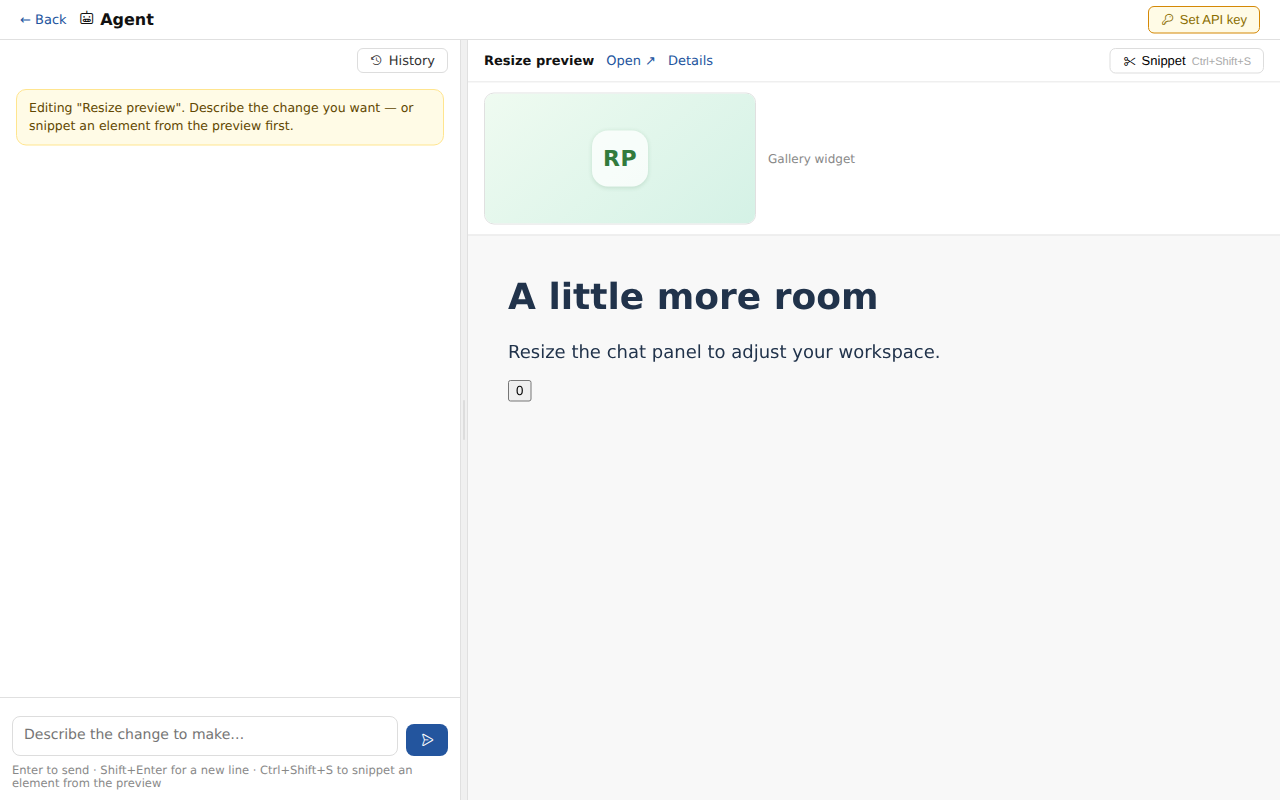
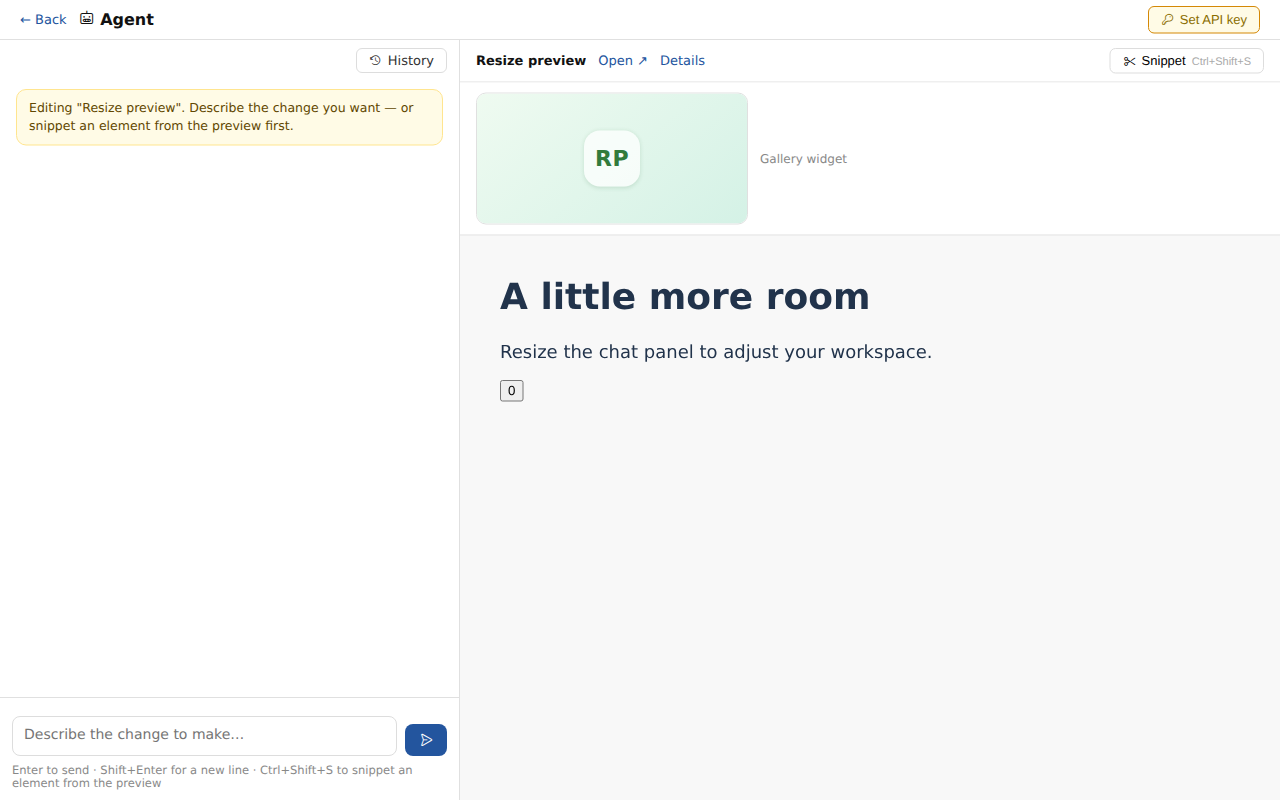
Use the agent panel border for resizing without a visible handle

diff --git a/web/gallery/agent.css b/web/gallery/agent.css
@@ -12,10 +12,10 @@ header h1{font-size:16px;font-weight:600;flex:1}
 .key-btn:hover{border-color:var(--brand-blue);color:var(--brand-blue)}
 .key-btn.warn{border-color:var(--color-warn-strong);color:var(--color-warn-ink-soft);background:var(--color-warn-tint)}
 .layout{display:flex;flex:1;overflow:hidden}
-.chat{width:clamp(280px,var(--agent-chat-width,460px),calc(100% - 288px));min-width:280px;flex-shrink:0;display:flex;flex-direction:column;background:var(--color-panel)}
-.pane-resizer{flex:0 0 8px;position:relative;cursor:col-resize;touch-action:none;background:var(--color-ground);border-inline:1px solid var(--color-hairline);outline:none}
-.pane-resizer::after{content:"";position:absolute;inset:calc(50% - 20px) 2px;border-radius:2px;background:var(--color-border)}
-.pane-resizer:hover::after,.pane-resizer:focus-visible::after,.layout.is-resizing .pane-resizer::after{background:var(--brand-blue)}
+.chat{width:clamp(280px,var(--agent-chat-width,460px),calc(100% - 280px));min-width:280px;flex-shrink:0;display:flex;flex-direction:column;background:var(--color-panel);border-right:1px solid var(--color-hairline)}
+/* An invisible hit area straddles the panel's normal border without taking
+ * layout space or adding a visible grip. */
+.pane-resizer{flex:0 0 8px;margin-inline:-4px;position:relative;z-index:1;cursor:col-resize;touch-action:none;outline:none}
 .pane-resizer:focus-visible{box-shadow:inset 0 0 0 2px var(--brand-blue)}
 .layout.is-resizing{cursor:col-resize;user-select:none}
 /* Captured pointer events must keep reaching the divider over artifact frames. */

diff --git a/web/gallery/agent-resize.js b/web/gallery/agent-resize.js
@@ -16,7 +16,7 @@ try {
 } catch { /* Storage can be unavailable; resizing still works. */ }
 
 function maximumWidth() {
-  return Math.max(MIN_PANE_WIDTH, layout.clientWidth - divider.offsetWidth - MIN_PANE_WIDTH);
+  return Math.max(MIN_PANE_WIDTH, layout.clientWidth - MIN_PANE_WIDTH);
 }
 
 function applyWidth() {

diff --git a/.tickets/Exh-blsd.md b/.tickets/Exh-blsd.md
@@ -26,3 +26,7 @@ Implemented a persistent desktop divider with pointer capture, keyboard controls
 **2026-10-19T04:16:52Z**
 
 Final validation: go test ./... passes after regenerating the stale local Phosphor bundle. Browser checks pass for pointer dragging across the artifact, keyboard controls, reload persistence, viewport clamping, and mobile tabs. Four current screenshots are committed with the implementation.
+
+**2026-10-19T04:29:01Z**
+
+Refined the interaction per user feedback: removed the visible resize gutter, grip, and instructional tooltip. The chat keeps its normal hairline border; an invisible hit area straddles that edge with the standard resize cursor. Updated width limits to account for zero gutter space. Five resize interaction tests and the focused Go/page-script suite pass; browser dragging and narrow/mobile layouts verified; screenshots refreshed.

diff --git a/docs/agent.md b/docs/agent.md
@@ -584,8 +584,9 @@ conversation that cannot be continued — kept before session files existed, or 
 an instance with no agent — shows a note where the card would be, not a missing
 button.
 
-**Resizable chat (Exh-blsd).** On desktop, drag the divider between chat and
-preview to change the chat width. Focus the divider and use Left/Right arrows
+**Resizable chat (Exh-blsd).** On desktop, drag the chat panel's right edge to
+change its width. The edge uses a resize cursor without a visible grip or extra
+bar. Focus the edge and use Left/Right arrows
 (Shift for larger steps), or Home/End for the width limits. Double-click resets
 it to 460 pixels. The browser remembers the preferred width; smaller windows
 clamp it so both panes keep at least 280 pixels. Mobile retains the Chat/Preview
